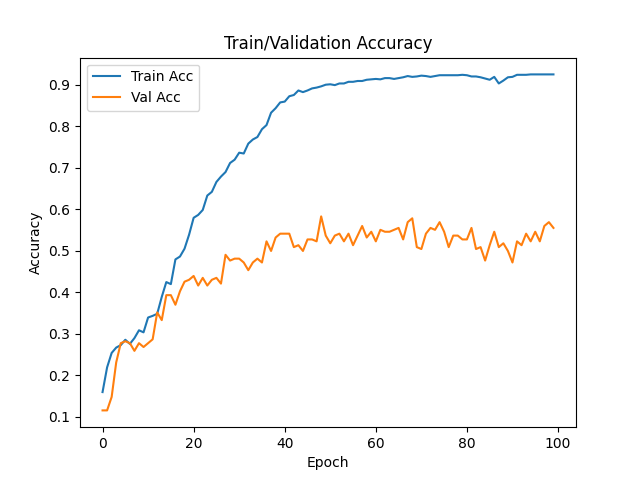
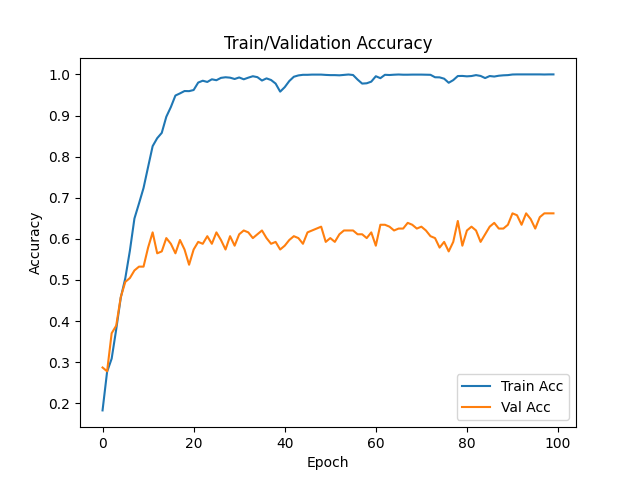
ECLR Result on augmented data

diff --git a/src/train.py b/src/train.py
@@ -94,6 +94,8 @@ def save_visualizations(model_name, all_gts, all_preds, train_accs, val_accs, tr
     plt.savefig(os.path.join(result_dir, "loss.png"))
     plt.close()
 
+def count_parameters(model):
+    return sum(p.numel() for p in model.parameters() if p.requires_grad)
 
 # ---------------------------
 DEVICE = torch.device("cuda" if torch.cuda.is_available() else "cpu")
@@ -115,9 +117,16 @@ if __name__ == "__main__":
     val_dl   = DataLoader(val_dataset,
                           batch_size=BATCH_SIZE, shuffle=False, collate_fn=collate_pad)
 
-    model = ECLR(n_classes = 8).to(DEVICE)
+    model = CRNN(n_classes = 8).to(DEVICE)
     optim = torch.optim.AdamW(model.parameters(), lr=LR, weight_decay=1e-4)
     crit  = nn.CrossEntropyLoss()
+
+    # Display total params 
+    num_params = count_parameters(model)
+    print(f"Model: {model.__class__.__name__}")
+    print(f"Total trainable parameters: {num_params:,}")
+    print("-" * 50)
+
 
     train_accs, val_accs = [], []
     train_losses, val_losses = [], []

diff --git a/src/models/cnn_eclr.py b/src/models/cnn_eclr.py
@@ -52,8 +52,7 @@ class ECLR(nn.Module):
             nn.Linear(128 * 2, 64),
             nn.ReLU(),
             nn.Dropout(0.3),
-            nn.Linear(64, n_classes),
-            nn.Softmax(dim=1)
+            nn.Linear(64, n_classes)
         )
 
 
